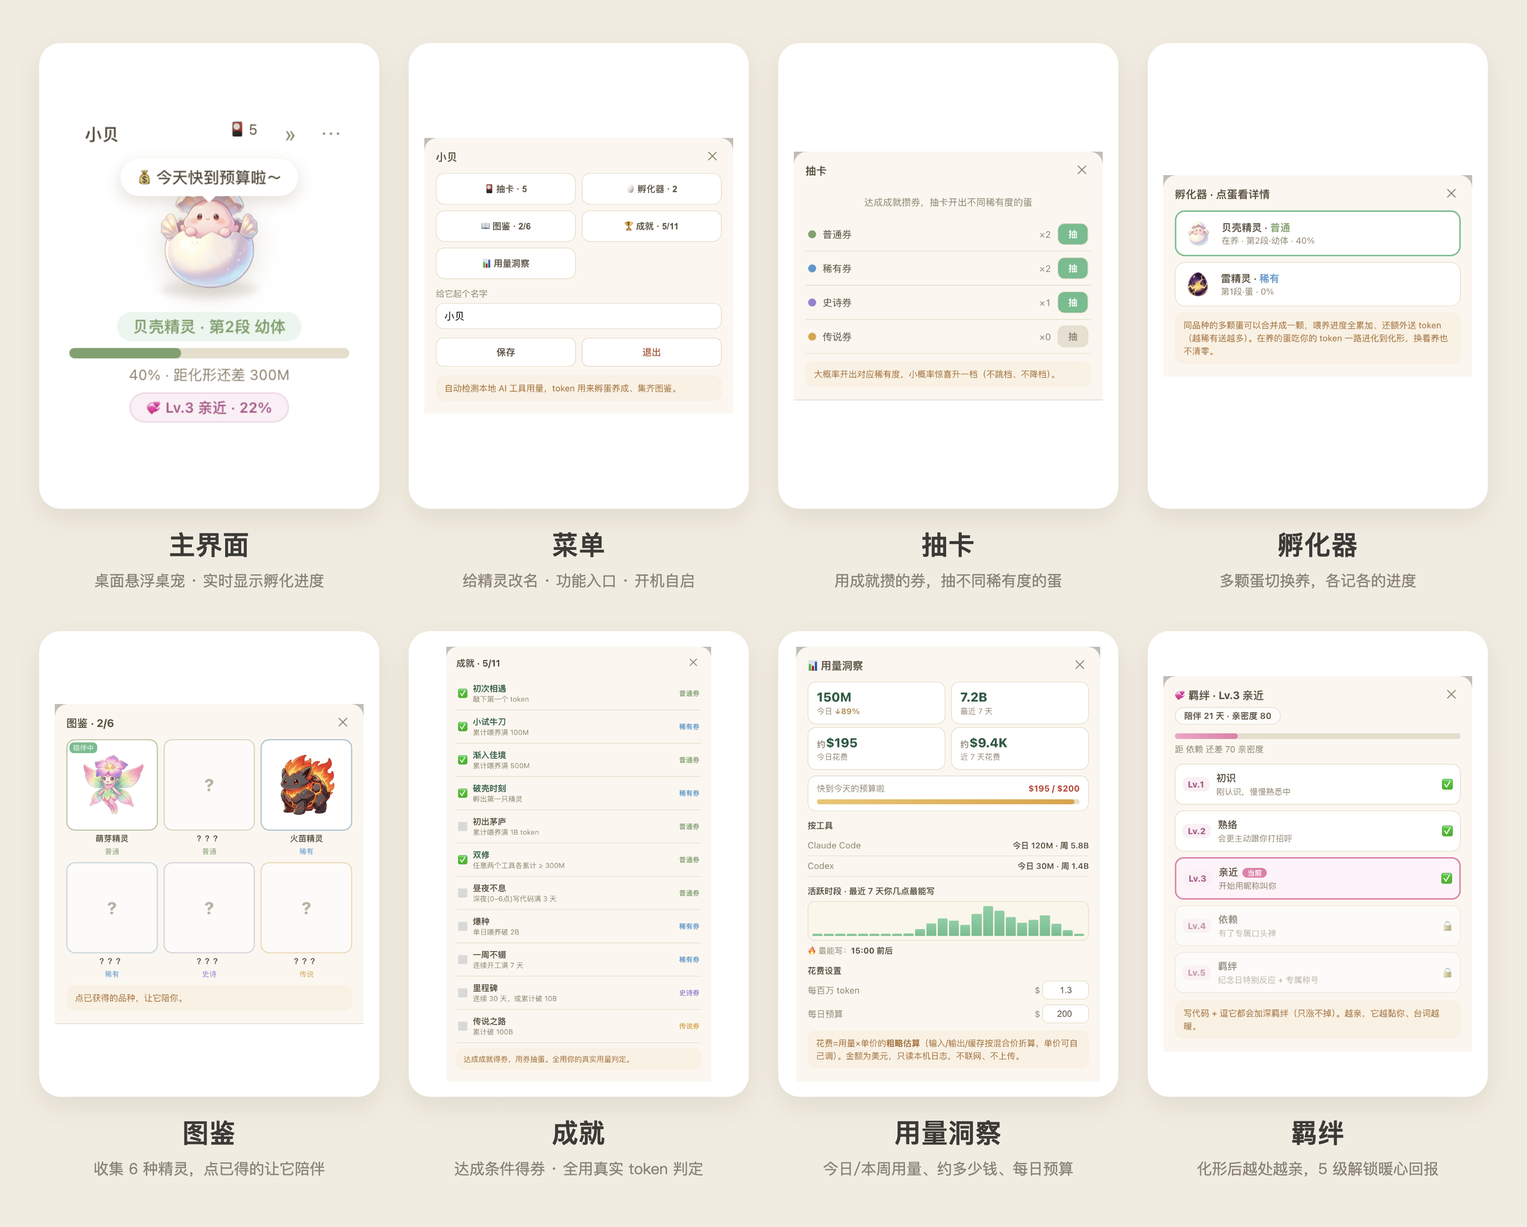
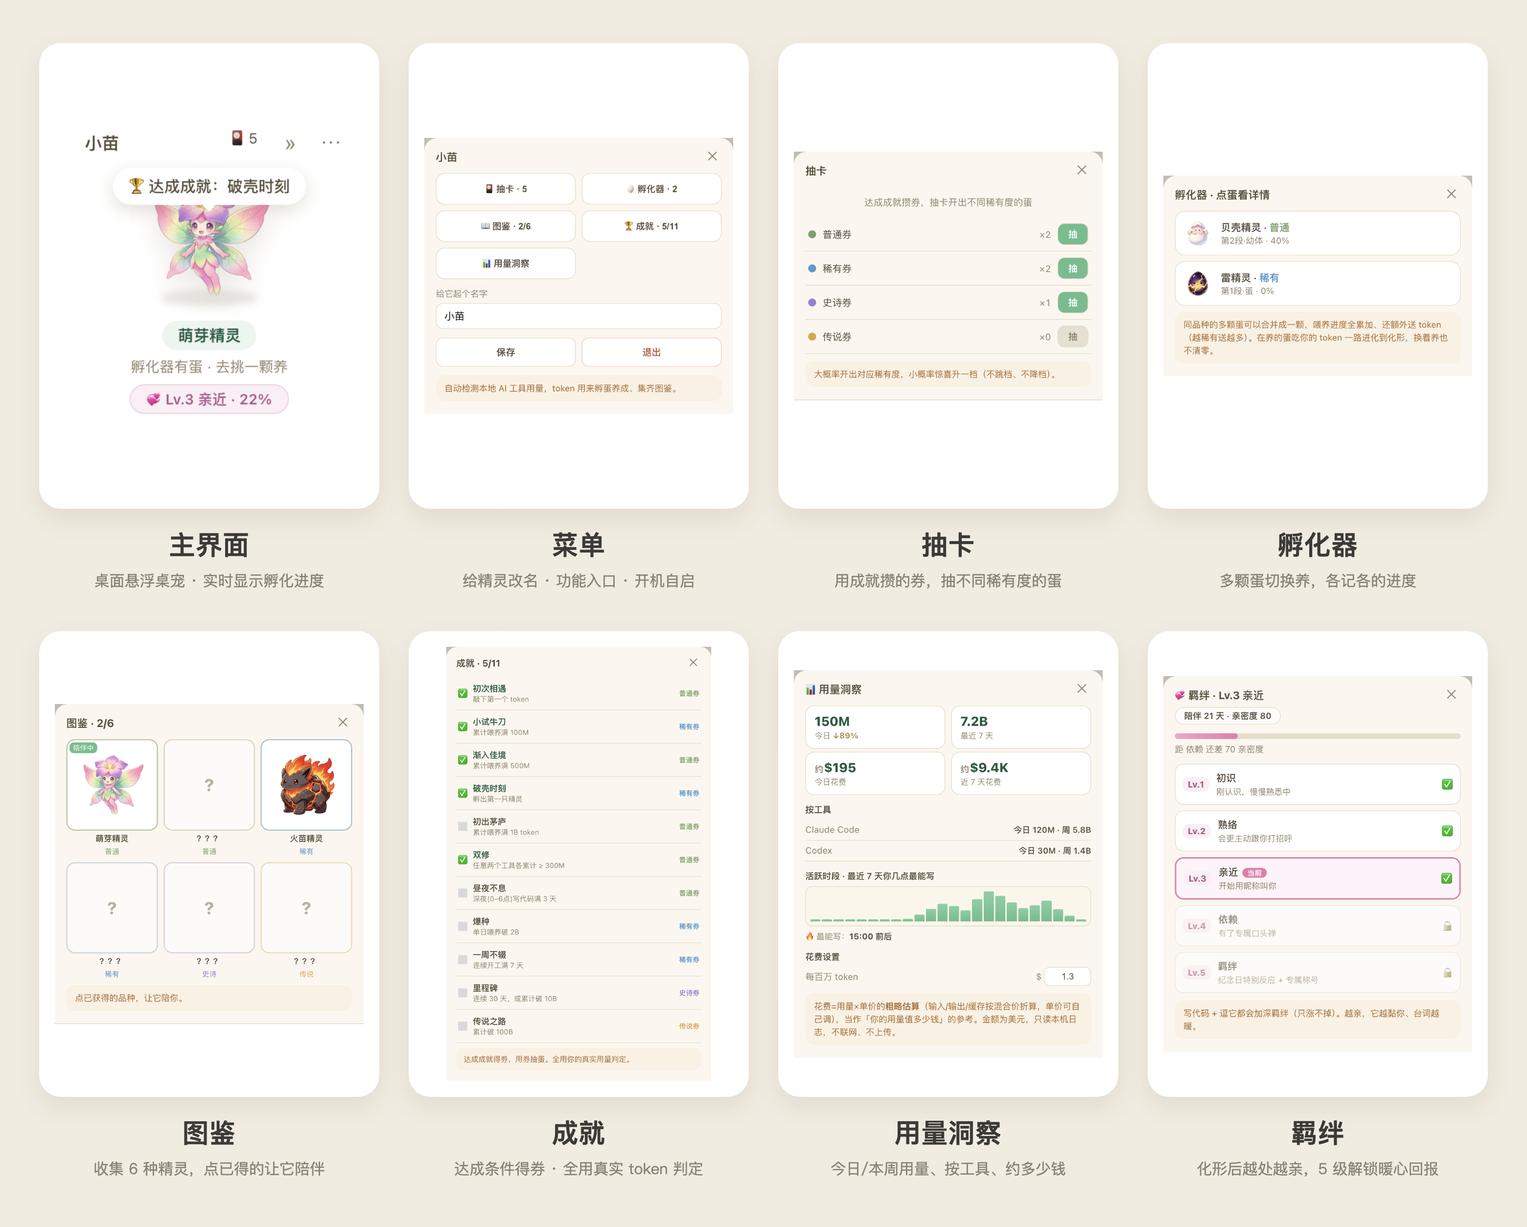
去掉每日预算能力（订阅场景无意义），只留花费估算；界面一览图重出（主界面改为已化形精灵带亲密度）

diff --git a/src/main.js b/src/main.js
@@ -5,7 +5,7 @@ import { drawFromTicket, ensureStarter, setActiveEgg, settleHatch, mergeDuplicat
 import { evaluateAchievements, computeStreak, todayStr } from './domain/achievements.js';
 import { petInteract, settleBondLevel, bondView, activateBond, BOND_LEVELS } from './domain/bond.js';
 import { usageStats } from './domain/usageStats.js';
-import { estimateCost, budgetView, settleBudgetAlert, DEFAULT_USD_PER_MILLION } from './domain/cost.js';
+import { estimateCost, DEFAULT_USD_PER_MILLION } from './domain/cost.js';
 import { loadPet, savePet } from './services/pet-store.js';
 import { LocalUsageSource } from './services/token-source.js';
 import { stageUrl, adultUrl } from './services/sprites.js';
@@ -130,15 +130,14 @@ function costSettings() {
   const s = state.settings || {};
   return {
     usdPerMillion: Number.isFinite(s.usdPerMillion) && s.usdPerMillion > 0 ? s.usdPerMillion : DEFAULT_USD_PER_MILLION,
-    dailyBudget: Number.isFinite(s.dailyBudget) && s.dailyBudget > 0 ? s.dailyBudget : null,
   };
 }
 function usageVm() {
   const stats = usageStats(usage);
-  const { usdPerMillion, dailyBudget } = costSettings();
+  const { usdPerMillion } = costSettings();
   const todayCost = estimateCost(stats.today, usdPerMillion);
   const weekCost = estimateCost(stats.week, usdPerMillion);
-  return { ...stats, cost: { todayCost, weekCost, usdPerMillion, budget: budgetView(todayCost, dailyBudget) } };
+  return { ...stats, cost: { todayCost, weekCost, usdPerMillion } };
 }
 // 孵化进度百分比：保留两位小数（精确到 0.01%），并去掉多余的 0。
 // 刚喂一点点也能看到数字在动，不会误以为「没喂进去」。
@@ -182,14 +181,9 @@ function bindUsage(mask) {
     bindUsage(mask); // 重渲后重新绑定新的输入框
   };
   const rate = mask.querySelector('#rateInput');
-  const budget = mask.querySelector('#budgetInput');
   rate?.addEventListener('change', () => {
     const v = parseFloat(rate.value);
     commit({ usdPerMillion: Number.isFinite(v) && v > 0 ? v : DEFAULT_USD_PER_MILLION });
-  });
-  budget?.addEventListener('change', () => {
-    const v = parseFloat(budget.value);
-    commit({ dailyBudget: Number.isFinite(v) && v > 0 ? v : null });
   });
 }
 
@@ -270,13 +264,6 @@ async function sync() {
   if (bondStarted) dirty = true;
   const bondUp = settleBondLevel(state, growth);
   if (bondUp) dirty = true;
-
-  // 每日预算提醒（到 80% / 超 100% 各提醒一次，当天不重复）
-  const { usdPerMillion, dailyBudget } = costSettings();
-  const todayCost = estimateCost(usage.todayTokens || 0, usdPerMillion);
-  const budgetAlert = settleBudgetAlert(state, todayCost, dailyBudget, today);
-  if (budgetAlert) dirty = true;
-
   if (dirty) savePet(state);
 
   // 台词
@@ -293,9 +280,6 @@ async function sync() {
     setTimeout(() => setBubble('💞 我们的关系，从今天开始记录～'), 300);
   } else if (bondUp) {
     setTimeout(() => setBubble(`💞 羁绊升到 Lv.${bondUp.level} ${bondUp.name}！`), 300);
-  } else if (budgetAlert) {
-    const msg = budgetAlert.level === 'over' ? '💸 今天超预算咯，悠着点～' : '💰 今天快到预算啦～';
-    setTimeout(() => setBubble(msg), 300);
   } else if (ach.newly.length) {
     setTimeout(() => setBubble('🏆 达成成就：' + ach.newly[0].name), 300);
   } else if (bubble) {

diff --git a/src/domain/cost.test.js b/src/domain/cost.test.js
@@ -1,5 +1,5 @@
 import { describe, it, expect } from 'vitest';
-import { DEFAULT_USD_PER_MILLION, estimateCost, formatMoney, budgetView, settleBudgetAlert } from './cost.js';
+import { DEFAULT_USD_PER_MILLION, estimateCost, formatMoney } from './cost.js';
 
 const M = 1_000_000;
 
@@ -35,75 +35,5 @@ describe('formatMoney 展示（美元）', () => {
     expect(formatMoney(12229)).toBe('$12.2K');
     expect(formatMoney(150000)).toBe('$150K'); // ≥100K取整
     expect(formatMoney(1_200_000)).toBe('$1.2M');
-  });
-});
-
-describe('budgetView 预算进度', () => {
-  it('没设预算', () => {
-    const v = budgetView(50, null);
-    expect(v.hasBudget).toBe(false);
-  });
-  it('未到 80% = ok', () => {
-    const v = budgetView(50, 100);
-    expect(v.hasBudget).toBe(true);
-    expect(v.pct).toBe(50);
-    expect(v.level).toBe('ok');
-  });
-  it('到 80% = near', () => {
-    expect(budgetView(80, 100).level).toBe('near');
-    expect(budgetView(99, 100).level).toBe('near');
-  });
-  it('超 100% = over，进度条封顶 100', () => {
-    const v = budgetView(150, 100);
-    expect(v.level).toBe('over');
-    expect(v.pct).toBe(100);
-  });
-});
-
-describe('settleBudgetAlert 每日预算提醒（每档每天一次）', () => {
-  const today = '2026-08-06';
-
-  it('没设预算不提醒', () => {
-    const state = {};
-    expect(settleBudgetAlert(state, 999, null, today)).toBeNull();
-    expect(state.budgetAlert).toBeUndefined();
-  });
-
-  it('未到 80% 不提醒', () => {
-    const state = {};
-    expect(settleBudgetAlert(state, 50, 100, today)).toBeNull();
-  });
-
-  it('首次到 80% 提醒 near 并记档', () => {
-    const state = {};
-    const r = settleBudgetAlert(state, 85, 100, today);
-    expect(r).toEqual({ level: 'near' });
-    expect(state.budgetAlert).toEqual({ date: today, level: 80 });
-  });
-
-  it('同一天 near 已提醒过，不再重复', () => {
-    const state = { budgetAlert: { date: today, level: 80 } };
-    expect(settleBudgetAlert(state, 90, 100, today)).toBeNull();
-  });
-
-  it('同一天从 near 升到 over，提醒 over', () => {
-    const state = { budgetAlert: { date: today, level: 80 } };
-    const r = settleBudgetAlert(state, 120, 100, today);
-    expect(r).toEqual({ level: 'over' });
-    expect(state.budgetAlert).toEqual({ date: today, level: 100 });
-  });
-
-  it('直接冲过 100%（没经过 near）也只提醒 over 一次', () => {
-    const state = {};
-    expect(settleBudgetAlert(state, 200, 100, today)).toEqual({ level: 'over' });
-    expect(state.budgetAlert).toEqual({ date: today, level: 100 });
-    expect(settleBudgetAlert(state, 300, 100, today)).toBeNull();
-  });
-
-  it('跨天重置：昨天提醒过，今天重新算', () => {
-    const state = { budgetAlert: { date: '2026-08-05', level: 100 } };
-    const r = settleBudgetAlert(state, 85, 100, today);
-    expect(r).toEqual({ level: 'near' });
-    expect(state.budgetAlert).toEqual({ date: today, level: 80 });
   });
 });

diff --git a/src/ui/views.js b/src/ui/views.js
@@ -128,15 +128,7 @@ export function usageHTML(vm) {
     : '<div class="u-tool"><span>暂无本地可读的用量</span><b>—</b></div>';
   const bars = u.bars.map((h, i) => `<div class="u-bar" style="height:${Math.max(3, h)}%" title="${i}:00"></div>`).join('');
   const peak = u.peakHour == null ? '还没数据' : `${String(u.peakHour).padStart(2, '0')}:00 前后`;
-  const c = u.cost || { todayCost: 0, weekCost: 0, usdPerMillion: 1.3, budget: { hasBudget: false } };
-  const b = c.budget || { hasBudget: false };
-  const budgetLabel = { over: '⚠ 今天超预算了', near: '快到今天的预算啦', ok: '今日预算' }[b.level] || '今日预算';
-  const budgetBlock = b.hasBudget
-    ? `<div class="u-bud ${b.level}">
-        <div class="u-bud-top"><span>${budgetLabel}</span><b>${formatMoney(b.cost)} / ${formatMoney(b.budget)}</b></div>
-        <div class="u-bud-bar"><span style="width:${b.pct}%"></span></div>
-       </div>`
-    : '';
+  const c = u.cost || { todayCost: 0, weekCost: 0, usdPerMillion: 1.3 };
   return `<button class="close nodrag" data-close aria-label="关闭">✕</button>
     <h2>📊 用量洞察</h2>
     <div class="u-stat-row">
@@ -147,7 +139,6 @@ export function usageHTML(vm) {
       <div class="u-stat"><div class="u-n"><span class="approx">约</span>${formatMoney(c.todayCost)}</div><div class="u-l">今日花费</div></div>
       <div class="u-stat"><div class="u-n"><span class="approx">约</span>${formatMoney(c.weekCost)}</div><div class="u-l">近 7 天花费</div></div>
     </div>
-    ${budgetBlock}
     <div class="u-sec">按工具</div>
     ${tools}
     <div class="u-sec">活跃时段 · 最近 7 天你几点最能写</div>
@@ -156,9 +147,8 @@ export function usageHTML(vm) {
     <div class="u-sec">花费设置</div>
     <div class="u-set">
       <label><span class="u-set-k">每百万 token</span><span class="u-set-v">$<input class="nodrag" id="rateInput" type="number" min="0" step="0.1" value="${c.usdPerMillion}" /></span></label>
-      <label><span class="u-set-k">每日预算</span><span class="u-set-v">$<input class="nodrag" id="budgetInput" type="number" min="0" step="1" placeholder="选填" value="${b.hasBudget ? b.budget : ''}" /></span></label>
     </div>
-    <div class="source-note" style="margin-top:10px">花费=用量×单价的<b>粗略估算</b>（输入/输出/缓存按混合价折算，单价可自己调）。金额为美元，只读本机日志，不联网、不上传。</div>`;
+    <div class="source-note" style="margin-top:10px">花费=用量×单价的<b>粗略估算</b>（输入/输出/缓存按混合价折算，单价可自己调），当作「你的用量值多少钱」的参考。金额为美元，只读本机日志，不联网、不上传。</div>`;
 }
 
 export function bondHTML(vm) {

diff --git a/src/style.css b/src/style.css
@@ -294,15 +294,6 @@ body.collapsed #app { width: 56px; padding: 0; gap: 0; }
 .u-bar { flex: 1; background: linear-gradient(180deg, #7fd0a3, #63bd8b); border-radius: 2px 2px 0 0; min-height: 3px; }
 .u-hint { font-size: 11.5px; color: var(--muted); margin-top: 6px; }
 .u-hint b { color: var(--ink); }
-.u-bud { margin-top: 8px; background: var(--card); border: 1px solid var(--line); border-radius: 12px; padding: 9px 12px; }
-.u-bud-top { display: flex; justify-content: space-between; align-items: baseline; gap: 8px; font-size: 12px; }
-.u-bud-top span { color: var(--muted); white-space: nowrap; }
-.u-bud-top b { color: var(--accent-ink); font-weight: 700; }
-.u-bud-bar { height: 7px; background: #eadfca; border-radius: 4px; margin-top: 7px; overflow: hidden; }
-.u-bud-bar span { display: block; height: 100%; background: linear-gradient(90deg, #7fd0a3, #63bd8b); border-radius: 4px; }
-.u-bud.near .u-bud-top b, .u-bud.over .u-bud-top b { color: #c0392b; }
-.u-bud.near .u-bud-bar span { background: linear-gradient(90deg, #f0c469, #e0a13a); }
-.u-bud.over .u-bud-bar span { background: linear-gradient(90deg, #e88a6a, #d3573a); }
 .u-set { display: flex; flex-direction: column; gap: 7px; }
 .u-set label { display: flex; justify-content: space-between; align-items: center; gap: 8px; font-size: 12.5px; color: var(--muted); }
 .u-set-k { white-space: nowrap; }

diff --git a/src/domain/cost.js b/src/domain/cost.js
@@ -22,25 +22,3 @@ function trimUnit(x) {
   if (x >= 100) return String(Math.round(x));
   return x.toFixed(1).replace(/\.0$/, '');
 }
-
-// 今日花费 / 预算 的进度视图。budget 为空 = 没设。
-export function budgetView(cost, budget) {
-  const b = Number.isFinite(budget) && budget > 0 ? budget : null;
-  if (!b) return { hasBudget: false, cost, budget: null, pct: 0, level: 'ok' };
-  const raw = (cost / b) * 100;
-  const level = raw >= 100 ? 'over' : raw >= 80 ? 'near' : 'ok';
-  return { hasBudget: true, cost, budget: b, pct: Math.min(100, Math.round(raw)), level };
-}
-
-// 每日预算提醒：同一天每档（80/100）只提醒一次，跨天自动重置。命中就地写 state.budgetAlert 并返回 { level }，否则 null。
-export function settleBudgetAlert(state, cost, budget, today) {
-  const b = Number.isFinite(budget) && budget > 0 ? budget : null;
-  if (!b) return null;
-  const raw = (cost / b) * 100;
-  const reached = raw >= 100 ? 100 : raw >= 80 ? 80 : 0;
-  if (reached === 0) return null;
-  const prev = state.budgetAlert && state.budgetAlert.date === today ? state.budgetAlert.level : 0;
-  if (reached <= prev) return null;
-  state.budgetAlert = { date: today, level: reached };
-  return { level: reached >= 100 ? 'over' : 'near' };
-}

diff --git a/src/services/pet-store.js b/src/services/pet-store.js
@@ -16,8 +16,7 @@ export function defaultState() {
     activePetSpecies: null, // 出战宠物
     activeDates: [], // 活跃日 YYYY-MM-DD
     nightDates: [], // 深夜活跃日
-    settings: { usdPerMillion: 1.3, dailyBudget: null }, // 花费估算单价（每百万token≈$）+ 每日预算美元（null=不提醒）
-    budgetAlert: null, // { date, level:80|100 } 当天预算提醒已到哪档，防重复
+    settings: { usdPerMillion: 1.3 }, // 花费估算单价（每百万 token ≈ $，可调）
   };
 }
 

diff --git a/README.md b/README.md
@@ -40,7 +40,7 @@ Got duplicate eggs of the same species? **Merge** them in the incubator—progre
 
 - **真实劳动养出来 / Powered by real work**：读取本地 AI 编程工具的真实 Token 用量，写多少就长多少。 / It grows from your actual local AI-coding usage.
 - **会陪你 / A companion, not a counter**：连续工作会劝你休息，深夜会提醒早点睡，久别重逢会向你招手；化形后还会和你结下**羁绊**，越写越亲。 / It nudges you to rest, sleep, and come back—and after final form it forms a growing **bond** with you the more you code.
-- **看得见用量和花费 / See usage and cost**：用量洞察面板显示今日/近 7 天写了多少 token、按工具占比、活跃时段，还能折算**约多少钱**并设每日预算提醒（美元、粗略估算）。 / A panel breaks down tokens by day, tool, and hour, converts them into a **rough dollar cost**, and can warn you when you pass a daily budget.
+- **看得见用量和花费 / See usage and cost**：用量洞察面板显示今日/近 7 天写了多少 token、按工具占比、活跃时段，还能折算成**约多少钱**（美元、粗略估算），当作「你的用量值多少钱」的参考。 / A panel breaks down tokens by day, tool, and hour, and converts them into a **rough dollar value** of what you've used.
 - **桌面常驻 / Always on your desktop**：悬浮置顶、自由拖动，也能缩成侧边探头。 / Always on top, draggable, and able to peek quietly from the screen edge.
 - **孵化收集 / Hatch and collect**：成就 → 抽蛋 → 进化 → 图鉴，让每次写代码都有期待。 / Achievements unlock eggs; eggs evolve into creatures for your collection.
 - **全本地私密 / Private by design**：只读本机日志，用量绝不上传；仅正式版会向 GitHub 查询有无新版本。 / Usage stays on your machine and is never uploaded; only released builds check GitHub for new versions.
@@ -94,13 +94,13 @@ Fully local, no login — one floating window: rename, draw, hatch, collect, ear
 | 🥚 孵化器 / Incubator | 多颗蛋切换养，各记各的进度、不清零 / Raise multiple eggs, each keeps its own progress |
 | 📖 图鉴 / Collection | 收集 6 种精灵，点已获得的让它陪伴 / Collect 6 species; tap an owned one to make it your companion |
 | 🏆 成就 / Achievements | 达成条件得券，全用真实 token 用量判定 / Earn tickets by hitting milestones, all judged on real token usage |
-| 📊 用量洞察 / Usage | 今日 / 最近 7 天用量、按工具占比、活跃时段，还有花费估算与每日预算 / Today & 7-day usage, per-tool split, active hours, plus cost estimate and daily budget |
+| 📊 用量洞察 / Usage | 今日 / 最近 7 天用量、按工具占比、活跃时段，还有花费估算 / Today & 7-day usage, per-tool split, active hours, plus a rough cost estimate |
 | 💞 羁绊 / Bond | 化形后开启，写代码 + 逗它越处越亲，5 级解锁暖心回报 / Unlocks after final form; coding and play deepen a 5-level bond |
 
 ## 📊 用量洞察与花费 / Usage & Cost Insights
 
-菜单 → **用量洞察**：看今日 / 最近 7 天写了多少 Token、每个工具各占多少、你几点最能写。还能把用量折成**约多少钱**（粗略估算，每百万 token 的单价可自己调），并设一个**每日预算**——当天估算花费到 80% 或超 100% 时，小精灵会冒泡提醒你。全部只读本机日志，不联网、不上传。<br />
-Open **Usage Insights** from the menu to see how many tokens you wrote today and over the last 7 days, each tool's share, and your most productive hours. It also turns usage into a **rough cost estimate** (with an adjustable per-million rate) and lets you set a **daily budget**—your sprite gently reminds you when the day's estimate hits 80% or goes over 100%. Everything is read from local logs only, never uploaded.
+菜单 → **用量洞察**：看今日 / 最近 7 天写了多少 Token、每个工具各占多少、你几点最能写。还能把用量折成**约多少钱**（粗略估算，每百万 token 的单价可自己调），当作「你的用量值多少钱」的参考。全部只读本机日志，不联网、不上传。<br />
+Open **Usage Insights** from the menu to see how many tokens you wrote today and over the last 7 days, each tool's share, and your most productive hours. It also turns usage into a **rough dollar estimate** (with an adjustable per-million rate) so you get a feel for what your usage is worth. Everything is read from local logs only, never uploaded.
 
 化形之后，陪伴不止：随着你写代码和逗它，**羁绊**会一路升级，解锁更亲昵的反应。<br />
 After it reaches its final form, the bond continues: coding and playful pokes level up your **bond**, unlocking warmer reactions over time.

diff --git a/docs/superpowers/specs/2026-08-06-cost-budget-design.md b/docs/superpowers/specs/2026-08-06-cost-budget-design.md
@@ -1,42 +1,29 @@
-# 花费/额度设计：约多少钱 + 每日预算提醒
+# 花费估算设计：约多少钱
 
 ## 背景 / 目标
-用量洞察只有 token 数，用户没有"这值多少钱"的直觉。补上两件事：
-1. **约多少钱**：把 token 折成美元，给"我的 agent 干了多少钱的活"的体感（契合"真实劳动→成长"的立意）。
-2. **每日预算提醒**：用户设一个每日预算，快到 / 超了时精灵主动提醒，帮控开销。
+用量洞察只有 token 数，用户没有"这值多少钱"的直觉。把 token 折成美元，给"我的 agent 干了多少钱的活"的体感（契合"真实劳动→成长"的立意）。
+
+> **2026-08-06 调整**：原设计还含「每日预算提醒」，但大家都是**订阅制**（花的是固定订阅费，不是按 token 付费），预算/超支提醒没有意义，已整体移除。只保留"约多少钱"作为"你的用量值多少钱"的趣味参考。
 
 ## 定稿算法（单一混合价，可调）
 - **单价**：`每百万 token ≈ $X`，默认 `X=1.3`（按主流模型 输入/输出/缓存 混合价粗估）。
   - 现有管线把输入/输出/缓存 token 全加成一个总数，不拆类型；因此用一个"混合价"折算，面板标注**「粗略估算·可调」**，用户可自行改单价。
 - **花费**：`cost(tokens) = tokens / 1_000_000 * X`（美元）。
-- 面板展示：**今日花费**、**最近 7 天花费**（对应现有今日/本周 token 两格）。
+- 面板展示：**今日花费**、**最近 7 天花费**（对应现有今日/本周 token 两格）。大额用 K/M 缩写防折行。
 
-## 每日预算提醒
-- 用户在用量面板填 **每日预算 $**（`settings.dailyBudget`）。为空 = 不提醒。
-- 当天估算花费（`cost(todayTokens)`）：
-  - 到 **80%**：精灵冒泡「今天快到预算啦～」提醒一次。
-  - 超 **100%**：冒泡「今天超预算咯」再提醒一次。
-  - **同一天每档只提醒一次**，不重复刷屏（跨天自动重置）。
-- 面板显示预算进度条（今日花费 / 预算），near(≥80%)/over(≥100%) 变色。
-
-## 数据（存档新增，向后兼容）
-- `state.settings = { usdPerMillion: 1.3, dailyBudget: null }`（`defaultState` 补默认，旧存档合并后自动带上）。
-- `state.budgetAlert = { date: 'YYYY-MM-DD', level: 0|80|100 }`：记当天已提醒到哪一档，防重复。
+## 数据（存档，向后兼容）
+- `state.settings = { usdPerMillion: 1.3 }`（`defaultState` 补默认，旧存档合并后自动带上；早期存过的 `dailyBudget`/`budgetAlert` 字段直接忽略）。
 
 ## 纯函数（TDD，`src/domain/cost.js`）
 - `DEFAULT_USD_PER_MILLION = 1.3`
-- `estimateCost(tokens, rate)` → 元（number）
-- `formatMoney(n)` → `$12`、`$1,234`、`$3.4`（<10 保留一位小数）
-- `budgetView(todayCost, budget)` → `{ hasBudget, pct, level:'ok'|'near'|'over', budget, cost }`
-- `settleBudgetAlert(state, todayCost, budget, today)` → `{ level:'near'|'over' } | null`，并写 `state.budgetAlert`（仿 `petInteract` 就地改 state、返回是否有事）
+- `estimateCost(tokens, rate)` → 美元（number）
+- `formatMoney(n)` → `$147`、`$1.2K`、`$9.4K`、`$1.2M`、`$3.4`（<10 保留一位小数，大额 K/M 缩写）
 
 ## 接线
 - `src/domain/usageStats.js` 保持不变；花费在 `deriveVm` 里用 `state.settings.usdPerMillion` 折算，塞进 `vm.usage.cost`。
-- `src/ui/views.js` `usageHTML`：token 两格下加"今日/本周花费"，加预算进度条，加两个小输入（每百万单价、每日预算）。窄窗 236px 内不折行。
-- `src/main.js`：
-  - `openUsage` 用 `openSheet(html, bind)` 绑定两个输入，改动写 `state.settings` + `savePet` + 重渲。
-  - `sync()` 里算 `todayCost`，调 `settleBudgetAlert`，命中则 `savePet` + 进冒泡优先级链（放成就之后）。
+- `src/ui/views.js` `usageHTML`：token 两格下加"今日/近 7 天花费"，花费设置里一个可调单价输入。窄窗 236px 内不折行。
+- `src/main.js`：`openUsage` 用 `openSheet(html, bind)` 绑定单价输入，改动写 `state.settings` + `savePet` + 重渲。
 
 ## 不做 / 以后
 - 不拆 token 类型精算（成本大、收益低；"粗略估算"够用）。以后要精算再改管线。
-- 不做按模型分别定价、不做月度账单。
+- 不做每日预算 / 超支提醒（订阅场景无意义）、不做按模型分别定价、不做月度账单。
